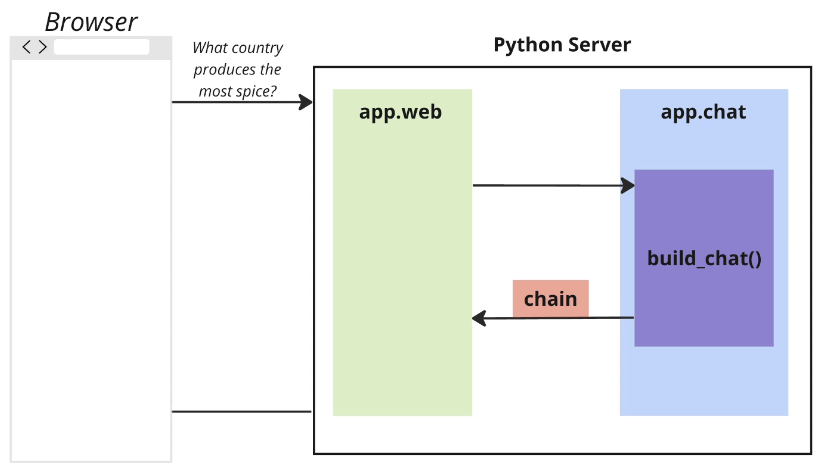
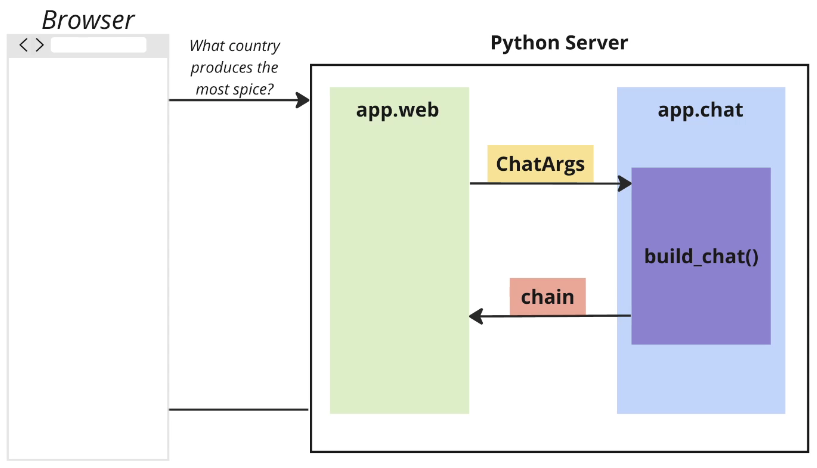
built the retriever

diff --git a/app/chat/chat.py b/app/chat/chat.py
@@ -1,16 +1,12 @@
 from app.chat.models import ChatArgs
-
+from app.chat.vector_stores.pinecone import build_retriever # import func from the pinecone.py file
 
 def build_chat(chat_args: ChatArgs):
     """
-    :param chat_args: ChatArgs object containing
-        conversation_id, pdf_id, metadata, and streaming flag.
-
+    :param chat_args: ChatArgs object containing conversation_id, pdf_id, metadata, and streaming flag.
     :return: A chain
 
     Example Usage:
-
         chain = build_chat(chat_args)
     """
-
-    pass
+    retriever = build_retriever(chat_args)

diff --git a/app/chat/vector_stores/pinecone.py b/app/chat/vector_stores/pinecone.py
@@ -34,3 +34,8 @@ vector_store = Pinecone.from_existing_index(
 # # one feature shared by various vector stores, such as Chroma and Pinecone, is the capability to transform them into retrievers
 # # build a retriever out of the vector store:
 # vector_store.as_retriever()
+def build_retriever(chat_args):
+    search_kwargs = {"filter": { "pdf_id": chat_args.pdf_id }}
+    return vector_store.as_retriever(
+        search_kwargs=search_kwargs
+    )
